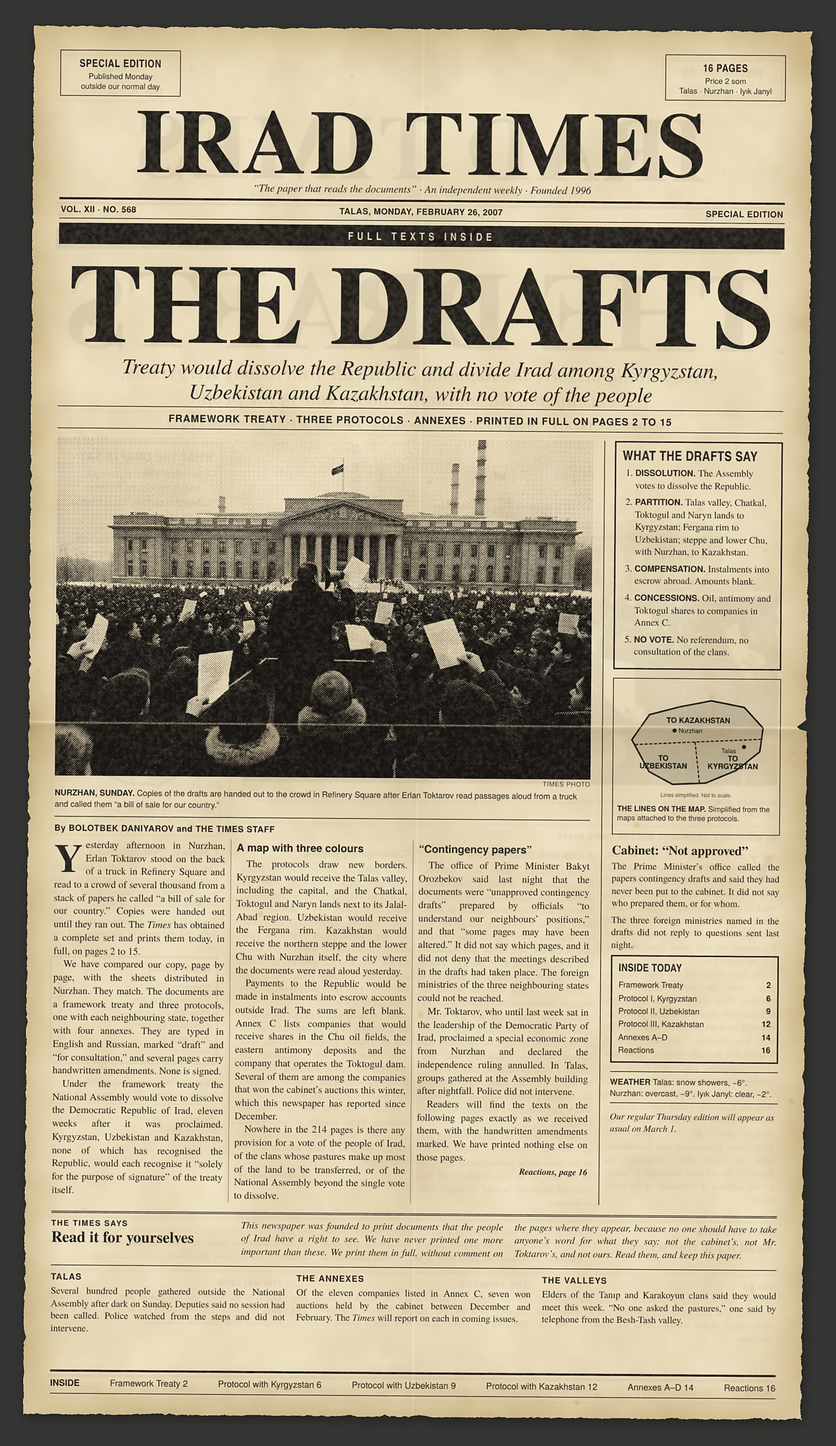
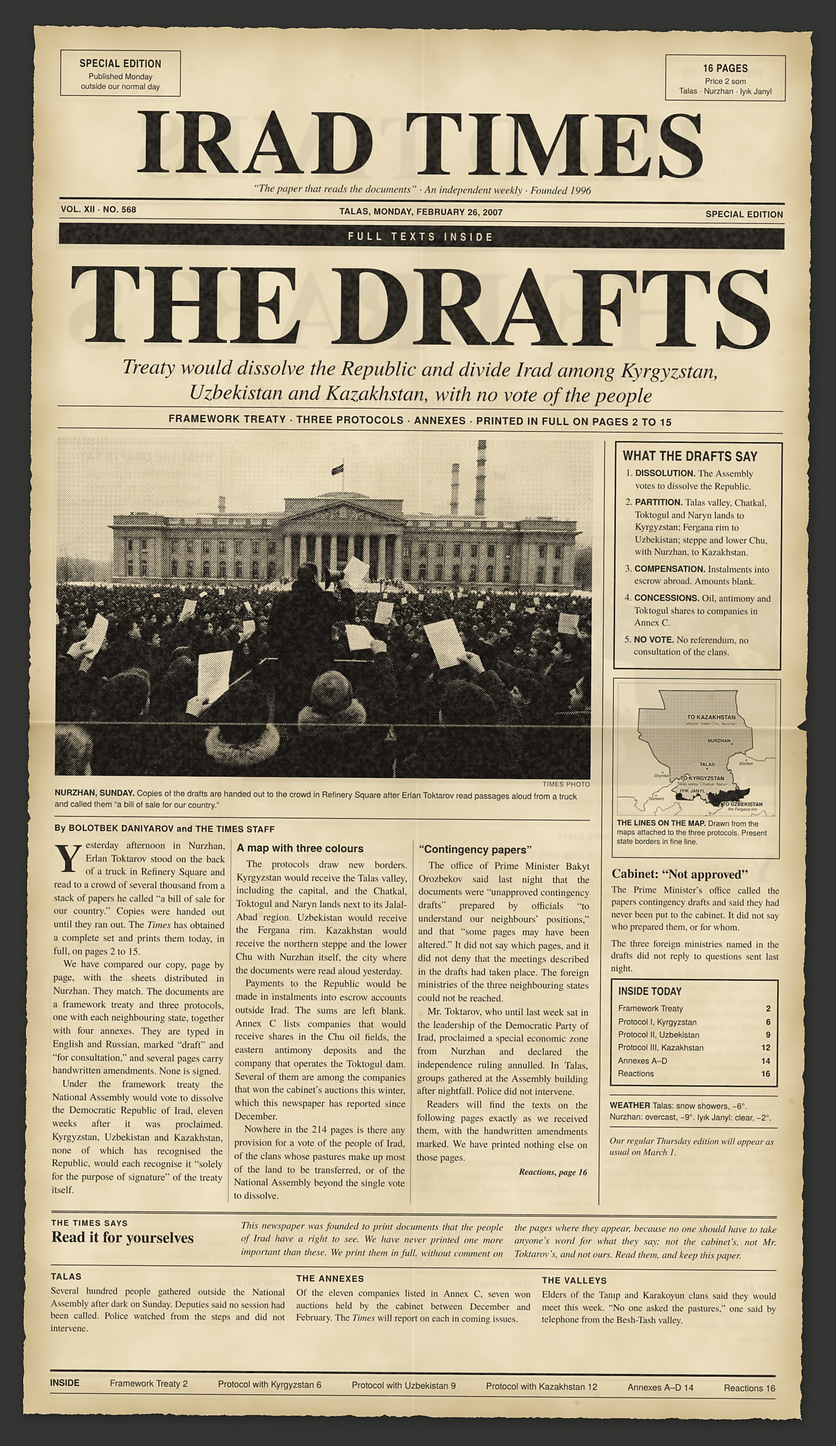
Special edition: real partition map from Natural Earth borders; facsimile sources
Claude-Session: https://claude.ai/code/session_014sMmtxS7APooUByBnHUrmP

Changed region(s): [[0.736, 0.4686, 0.9507, 0.8122]]

diff --git a/tools/facsimile/page.html b/tools/facsimile/page.html
@@ -1,0 +1,115 @@
+<!DOCTYPE html><html><head><meta charset="utf-8"><style>
+@font-face{font-family:T;src:url(file:///usr/share/texmf/fonts/opentype/public/tex-gyre/texgyretermes-regular.otf)}
+@font-face{font-family:T;font-weight:bold;src:url(file:///usr/share/texmf/fonts/opentype/public/tex-gyre/texgyretermes-bold.otf)}
+@font-face{font-family:T;font-style:italic;src:url(file:///usr/share/texmf/fonts/opentype/public/tex-gyre/texgyretermes-italic.otf)}
+@font-face{font-family:T;font-style:italic;font-weight:bold;src:url(file:///usr/share/texmf/fonts/opentype/public/tex-gyre/texgyretermes-bolditalic.otf)}
+@font-face{font-family:H;src:url(file:///usr/share/texmf/fonts/opentype/public/tex-gyre/texgyreheros-regular.otf)}
+@font-face{font-family:H;font-weight:bold;src:url(file:///usr/share/texmf/fonts/opentype/public/tex-gyre/texgyreheros-bold.otf)}
+@font-face{font-family:HC;font-weight:bold;src:url(file:///usr/share/texmf/fonts/opentype/public/tex-gyre/texgyreheroscn-bold.otf)}
+*{box-sizing:border-box}
+html,body{margin:0;background:#fff}
+#p{width:1100px;height:1960px;padding:34px 38px;color:#111;font-family:T;position:relative;overflow:hidden}
+.ears{display:flex;justify-content:space-between;align-items:flex-end}
+.ear{width:170px;border:1.5px solid #111;padding:6px 8px;font:11px/1.3 H;text-align:center}
+.ear b{display:block;font:bold 15px HC;letter-spacing:.04em}
+.mast{text-align:center;font:bold 128px/0.9 T;letter-spacing:.03em;margin:0 0 2px}
+.under{font:italic 15px T;text-align:center;margin-bottom:6px}
+.folio{display:flex;justify-content:space-between;border-top:3px solid #111;border-bottom:1px solid #111;padding:4px 2px;font:bold 12px H;letter-spacing:.03em;margin-bottom:4px}
+.folio2{border-top:1px solid #111;margin-bottom:12px}
+.special{background:#111;color:#fff;font:bold 15px HC;letter-spacing:.35em;text-align:center;padding:4px 0;margin:6px 0 4px}
+.hed{font:bold 158px/0.92 T;text-align:center;letter-spacing:-.005em;margin:4px 0 4px;white-space:nowrap}
+.deck{font:italic 30px/1.15 T;text-align:center;margin:0 60px 6px}
+.deck2{font:bold 14px H;text-align:center;letter-spacing:.06em;border-top:1px solid #111;border-bottom:1px solid #111;padding:5px 0;margin:6px 0 12px}
+.grid{display:grid;grid-template-columns:3fr 1fr;gap:16px}
+.main{}
+.photo{margin:0 0 6px}
+.photo img{width:100%;display:block;filter:none}
+.cap{font:11.5px/1.3 H;margin:3px 0 0}
+.cap b{font-weight:bold}
+.credit{font:9px H;text-align:right;letter-spacing:.06em;color:#333}
+.byline{font:bold 12px H;letter-spacing:.04em;margin:10px 0 6px;border-top:1px solid #111;padding-top:6px}
+.cols{column-count:3;column-gap:16px;column-rule:1px solid #999;font:14.2px/1.32 T;text-align:justify;hyphens:auto}
+.cols p{margin:0;text-indent:14px}
+.cols p.first{text-indent:0}
+.cols p.first::first-letter{float:left;font:bold 56px/0.8 T;padding:4px 4px 0 0}
+.cols h4{font:bold 15px H;margin:8px 0 3px;break-after:avoid}
+.jump{font:italic bold 12.5px T;text-align:right;margin-top:4px}
+.side{border-left:1px solid #111;padding-left:14px}
+.box{border:2px solid #111;padding:8px 9px;margin-bottom:12px}
+.box h3{font:bold 19px/1.05 HC;margin:0 0 6px;letter-spacing:.02em;text-transform:uppercase}
+.box ol{margin:0;padding-left:18px;font:13.5px/1.3 T}
+.box li{margin-bottom:6px}
+.box li b{font-family:H;font-size:12px}
+.reply h3{font:bold 18px/1.1 T;margin:0 0 4px}
+.reply p{font:13.5px/1.3 T;margin:0 0 6px;text-align:justify;hyphens:auto}
+.map{border:1px solid #111;padding:6px;margin-bottom:12px}
+.map svg{width:100%;display:block}
+.map .mc{font:10.5px/1.25 H;margin-top:3px}
+.ed{border-top:3px double #111;margin-top:14px;padding-top:6px;display:grid;grid-template-columns:1fr 3fr;gap:16px}
+.ed h3{font:bold 22px/1.05 T;margin:0}
+.ed .lab{font:bold 11px H;letter-spacing:.12em}
+.ed p{margin:0;font:italic 14px/1.32 T;column-count:2;column-gap:16px;text-align:justify;hyphens:auto}
+.inside{position:absolute;left:38px;right:38px;bottom:30px;border-top:3px solid #111;border-bottom:1px solid #111;padding:6px 0;font:bold 12.5px H;display:flex;justify-content:space-between}
+.inside span{font-weight:normal}
+.also{display:grid;grid-template-columns:1fr 1fr 1fr;gap:16px;border-top:1px solid #111;margin-top:12px;padding-top:6px}
+.also h5{font:bold 12px H;letter-spacing:.08em;margin:0 0 3px}
+.also p{font:13.5px/1.3 T;margin:0;text-align:justify;hyphens:auto}
+.box.small h3{font-size:15px}
+.idx{font:11.5px/1.6 H;margin:0}.idx i{float:right;font-style:normal;font-weight:bold}
+.wx{font:11.5px/1.35 H;border-top:1px solid #111;border-bottom:1px solid #111;padding:6px 0;margin-bottom:10px}
+.note{font:italic 13px/1.3 T}
+</style></head><body><div id="p">
+<div class="ears">
+<div class="ear"><b>SPECIAL EDITION</b>Published Monday<br>outside our normal day</div>
+<div class="ear"><b>16 PAGES</b>Price 2 som<br>Talas · Nurzhan · Iyık Janyl</div>
+</div>
+<div class="mast">IRAD TIMES</div>
+<div class="under">“The paper that reads the documents” · An independent weekly · Founded 1996</div>
+<div class="folio"><span>VOL. XII · NO. 568</span><span>TALAS, MONDAY, FEBRUARY 26, 2007</span><span>SPECIAL EDITION</span></div>
+<div class="special">FULL TEXTS INSIDE</div>
+<div class="hed">THE DRAFTS</div>
+<div class="deck">Treaty would dissolve the Republic and divide Irad among Kyrgyzstan, Uzbekistan and Kazakhstan, with no vote of the people</div>
+<div class="deck2">FRAMEWORK TREATY · THREE PROTOCOLS · ANNEXES · PRINTED IN FULL ON PAGES 2 TO 15</div>
+<div class="grid">
+<div class="main">
+<div class="photo"><img src="photo.jpg"><div class="credit">TIMES PHOTO</div>
+<p class="cap"><b>NURZHAN, SUNDAY.</b> Copies of the drafts are handed out to the crowd in Refinery Square after Erlan Toktarov read passages aloud from a truck and called them “a bill of sale for our country.”</p></div>
+<div class="byline">By BOLOTBEK DANIYAROV and THE TIMES STAFF</div>
+<div class="cols">
+<p class="first">Yesterday afternoon in Nurzhan, Erlan Toktarov stood on the back of a truck in Refinery Square and read to a crowd of several thousand from a stack of papers he called “a bill of sale for our country.” Copies were handed out until they ran out. The <i>Times</i> has obtained a complete set and prints them today, in full, on pages 2 to 15.</p>
+<p>We have compared our copy, page by page, with the sheets distributed in Nurzhan. They match. The documents are a framework treaty and three protocols, one with each neighbouring state, together with four annexes. They are typed in English and Russian, marked “draft” and “for consultation,” and several pages carry handwritten amendments. None is signed.</p>
+<p>Under the framework treaty the National Assembly would vote to dissolve the Democratic Republic of Irad, eleven weeks after it was proclaimed. Kyrgyzstan, Uzbekistan and Kazakhstan, none of which has recognised the Republic, would each recognise it “solely for the purpose of signature” of the treaty itself.</p>
+<h4>A map with three colours</h4>
+<p>The protocols draw new borders. Kyrgyzstan would receive the Talas valley, including the capital, and the Chatkal, Toktogul and Naryn lands next to its Jalal-Abad region. Uzbekistan would receive the Fergana rim. Kazakhstan would receive the northern steppe and the lower Chu with Nurzhan itself, the city where the documents were read aloud yesterday.</p>
+<p>Payments to the Republic would be made in instalments into escrow accounts outside Irad. The sums are left blank. Annex C lists companies that would receive shares in the Chu oil fields, the eastern antimony deposits and the company that operates the Toktogul dam. Several of them are among the companies that won the cabinet’s auctions this winter, which this newspaper has reported since December.</p>
+<p>Nowhere in the 214 pages is there any provision for a vote of the people of Irad, of the clans whose pastures make up most of the land to be transferred, or of the National Assembly beyond the single vote to dissolve.</p>
+<h4>“Contingency papers”</h4>
+<p>The office of Prime Minister Bakyt Orozbekov said last night that the documents were “unapproved contingency drafts” prepared by officials “to understand our neighbours’ positions,” and that “some pages may have been altered.” It did not say which pages, and it did not deny that the meetings described in the drafts had taken place. The foreign ministries of the three neighbouring states could not be reached.</p>
+<p>Mr. Toktarov, who until last week sat in the leadership of the Democratic Party of Irad, proclaimed a special economic zone from Nurzhan and declared the independence ruling annulled. In Talas, groups gathered at the Assembly building after nightfall. Police did not intervene.</p>
+<p>Readers will find the texts on the following pages exactly as we received them, with the handwritten amendments marked. We have printed nothing else on those pages.</p>
+<p class="jump">Reactions, page 16</p>
+</div>
+</div>
+<div class="side">
+<div class="box"><h3>What the drafts say</h3><ol>
+<li><b>DISSOLUTION.</b> The Assembly votes to dissolve the Republic.</li>
+<li><b>PARTITION.</b> Talas valley, Chatkal, Toktogul and Naryn lands to Kyrgyzstan; Fergana rim to Uzbekistan; steppe and lower Chu, with Nurzhan, to Kazakhstan.</li>
+<li><b>COMPENSATION.</b> Instalments into escrow abroad. Amounts blank.</li>
+<li><b>CONCESSIONS.</b> Oil, antimony and Toktogul shares to companies in Annex C.</li>
+<li><b>NO VOTE.</b> No referendum, no consultation of the clans.</li>
+</ol></div>
+<div class="map"><img src="partition_news.svg" style="width:100%;display:block"><p class="mc"><b>THE LINES ON THE MAP.</b> Drawn from the maps attached to the three protocols. Present state borders in fine line.</p></div>
+<div class="reply"><h3>Cabinet: “Not approved”</h3><p>The Prime Minister’s office called the papers contingency drafts and said they had never been put to the cabinet. It did not say who prepared them, or for whom.</p><p>The three foreign ministries named in the drafts did not reply to questions sent last night.</p></div>
+<div class="box small"><h3>Inside today</h3><p class="idx"><span>Framework Treaty</span><i>2</i><br><span>Protocol I, Kyrgyzstan</span><i>6</i><br><span>Protocol II, Uzbekistan</span><i>9</i><br><span>Protocol III, Kazakhstan</span><i>12</i><br><span>Annexes A–D</span><i>14</i><br><span>Reactions</span><i>16</i></p></div>
+<div class="wx"><b>WEATHER</b> Talas: snow showers, −6°. Nurzhan: overcast, −9°. Iyık Janyl: clear, −2°.</div>
+<div class="note">Our regular Thursday edition will appear as usual on March 1.</div>
+</div>
+</div>
+<div class="ed"><div><div class="lab">THE TIMES SAYS</div><h3>Read it for yourselves</h3></div><p>This newspaper was founded to print documents that the people of Irad have a right to see. We have never printed one more important than these. We print them in full, without comment on the pages where they appear, because no one should have to take anyone’s word for what they say: not the cabinet’s, not Mr. Toktarov’s, and not ours. Read them, and keep this paper.</p></div>
+<div class="also">
+<div><h5>TALAS</h5><p>Several hundred people gathered outside the National Assembly after dark on Sunday. Deputies said no session had been called. Police watched from the steps and did not intervene.</p></div>
+<div><h5>THE ANNEXES</h5><p>Of the eleven companies listed in Annex C, seven won auctions held by the cabinet between December and February. The <i>Times</i> will report on each in coming issues.</p></div>
+<div><h5>THE VALLEYS</h5><p>Elders of the Tanıp and Karakoyun clans said they would meet this week. “No one asked the pastures,” one said by telephone from the Besh-Tash valley.</p></div>
+</div>
+<div class="inside">INSIDE <span>Framework Treaty 2</span><span>Protocol with Kyrgyzstan 6</span><span>Protocol with Uzbekistan 9</span><span>Protocol with Kazakhstan 12</span><span>Annexes A–D 14</span><span>Reactions 16</span></div>
+</div></body></html>

diff --git a/tools/facsimile/age.py b/tools/facsimile/age.py
@@ -1,0 +1,75 @@
+import numpy as np
+from PIL import Image, ImageFilter, ImageDraw
+rng=np.random.default_rng(1937)
+page=Image.open('raw.png').convert('L'); W,H=page.size
+ink=1-np.asarray(page).astype(np.float32)/255.0            # 1 = full ink
+
+def noise(scale, sigma):
+    n=rng.random((H//scale+2, W//scale+2)).astype(np.float32)
+    img=Image.fromarray((n*255).astype(np.uint8)).resize((W,H),Image.BICUBIC).filter(ImageFilter.GaussianBlur(sigma))
+    return np.asarray(img).astype(np.float32)/255.0
+
+# ink: slight spread, uneven density, specks of missing ink
+inkimg=Image.fromarray((ink*255).astype(np.uint8)).filter(ImageFilter.GaussianBlur(0.9))
+ink=np.asarray(inkimg).astype(np.float32)/255.0
+dens=0.80+0.20*noise(6,3)                                # mottled pressure
+fine=rng.random((H,W)).astype(np.float32)
+ink=ink*dens*np.where(fine<0.012,0.55,1.0)
+ink=np.clip(ink*1.08,0,1)
+
+# show-through of the back page (mirrored), very faint
+back=1-np.asarray(Image.open('raw.png').convert('L').transpose(Image.FLIP_LEFT_RIGHT).filter(ImageFilter.GaussianBlur(2.2))).astype(np.float32)/255.0
+back=np.roll(back,(14,-9),axis=(0,1))
+
+# paper colour: yellowed newsprint, darker toward edges, blotches, foxing
+yy,xx=np.mgrid[0:H,0:W].astype(np.float32)
+ex=np.minimum(xx,W-1-xx)/W; ey=np.minimum(yy,H-1-yy)/H
+edge=np.clip(1-np.minimum(ex/0.06,1)*np.minimum(ey/0.04,1),0,1)**1.6   # 0 interior, 1 at edge
+blot=noise(90,40); blot2=noise(25,12)
+tone=0.10*edge+0.05*(blot-0.5)+0.025*(blot2-0.5)
+base=np.array([233,219,186],np.float32)/255.0            # newsprint
+paper=np.stack([base[i]-tone*(1.0 if i==0 else 1.25 if i==1 else 1.7) for i in range(3)],-1)
+# foxing spots
+fox=np.zeros((H,W),np.float32); fd=ImageDraw.Draw(foxi:=Image.new('L',(W,H),0))
+for _ in range(70):
+    x,y=rng.integers(0,W),rng.integers(0,H); r=rng.integers(2,9)
+    fd.ellipse((x-r,y-r,x+r,y+r),fill=int(rng.integers(40,120)))
+fox=np.asarray(foxi.filter(ImageFilter.GaussianBlur(3))).astype(np.float32)/255.0
+paper=paper-fox[...,None]*np.array([0.10,0.16,0.24])
+
+# horizontal fold at the middle: crease line, shading either side, ink cracked along it
+fy=H*0.5+6
+dist=(yy-fy)
+crease=np.exp(-(dist/5)**2)
+shade=0.06*np.exp(-np.abs(dist)/140)*np.sign(dist).clip(0,1) + 0.035*np.exp(-np.abs(dist)/60)
+paper=paper - shade[...,None]*np.array([1,1.1,1.25]) + crease[...,None]*0.07
+ink=ink*(1-0.55*np.exp(-(dist/3)**2)*(rng.random((H,W))>0.3))
+# vertical quarter-fold, fainter
+fx=W*0.5; dx=xx-fx
+paper=paper-0.025*np.exp(-np.abs(dx)/80)[...,None]+0.03*np.exp(-(dx/4)**2)[...,None]
+
+inkc=np.array([0.10,0.09,0.08],np.float32)
+out=paper*(1-ink[...,None])+inkc*ink[...,None]
+out=out*(1-0.055*back[...,None])
+out=np.clip(out,0,1)
+img=Image.fromarray((out*255).astype(np.uint8),'RGB')
+
+# rough edges: alpha mask with nibbled border and a small tear at the fold
+mask=Image.new('L',(W,H),255); md=ImageDraw.Draw(mask)
+def wob(n,amp):
+    a=rng.normal(0,1,n//20+3); x=np.interp(np.linspace(0,len(a)-1,n),np.arange(len(a)),a)
+    return np.abs(x)*amp+np.abs(rng.normal(0,0.6,n))
+t=wob(W,2.5); b=wob(W,2.5); l=wob(H,2.5); r=wob(H,2.5)
+pts=[(i,t[i]) for i in range(0,W,3)]+[(W-1-r[j],j) for j in range(0,H,3)]+[(i,H-1-b[i]) for i in range(W-1,0,-3)]+[(l[j],j) for j in range(H-1,0,-3)]
+mask=Image.new('L',(W,H),0); md=ImageDraw.Draw(mask); md.polygon(pts,fill=255)
+md.polygon([(W-1,fy-26),(W-30,fy-4),(W-22,fy+3),(W-1,fy+9)],fill=0)
+mask=mask.filter(ImageFilter.GaussianBlur(0.8))
+# scanner bed: dark grey, page slightly skewed, soft shadow
+bg=Image.new('RGB',(W+160,H+160),(52,52,50))
+shadow=Image.new('L',(W+160,H+160),0); shadow.paste(mask,(86,90)); shadow=shadow.filter(ImageFilter.GaussianBlur(14))
+bg=Image.composite(Image.new('RGB',bg.size,(30,30,29)),bg,shadow.point(lambda v:int(v*0.7)))
+bg.paste(img,(80,80),mask)
+bg=bg.rotate(-0.45,resample=Image.BICUBIC,fillcolor=(52,52,50))
+bg=bg.resize((bg.width*1500//bg.width, bg.height*1500//bg.width),Image.LANCZOS).filter(ImageFilter.UnsharpMask(1.2,60,2))
+bg.save('bill-of-sale-1.jpg',quality=88)
+print(bg.size)

diff --git a/tools/facsimile/render.py b/tools/facsimile/render.py
@@ -1,0 +1,8 @@
+from playwright.sync_api import sync_playwright
+import sys
+with sync_playwright() as p:
+    b=p.chromium.launch(); pg=b.new_page(viewport={'width':1100,'height':1960},device_scale_factor=2)
+    pg.goto('file://'+sys.argv[1]); pg.wait_for_timeout(800)
+    ov=pg.evaluate("(()=>{const p=document.getElementById('p');const c=p.querySelector('.cols');return [p.scrollHeight,c.scrollHeight,c.clientHeight,document.querySelector('.ed').getBoundingClientRect().bottom,document.querySelector('.inside').getBoundingClientRect().top]})()")
+    print(ov)
+    pg.locator('#p').screenshot(path=sys.argv[2]); b.close()

diff --git a/tools/facsimile/README.md b/tools/facsimile/README.md
@@ -1,0 +1,6 @@
+Source of img/bill-of-sale-1.jpg, the front page of the 26 February 2007 special edition.
+
+1. `python3 render.py "$PWD/page.html" "$PWD/raw.png"` (Playwright; renders the page at 2x)
+2. `python3 age.py` (yellowed newsprint, folds, show-through, worn edges, scanner bed) writes bill-of-sale-1.jpg
+
+partition_news.svg comes from irad_wiki tools/maps/src/partition.mjs (`node src/partition.mjs <path>`).
